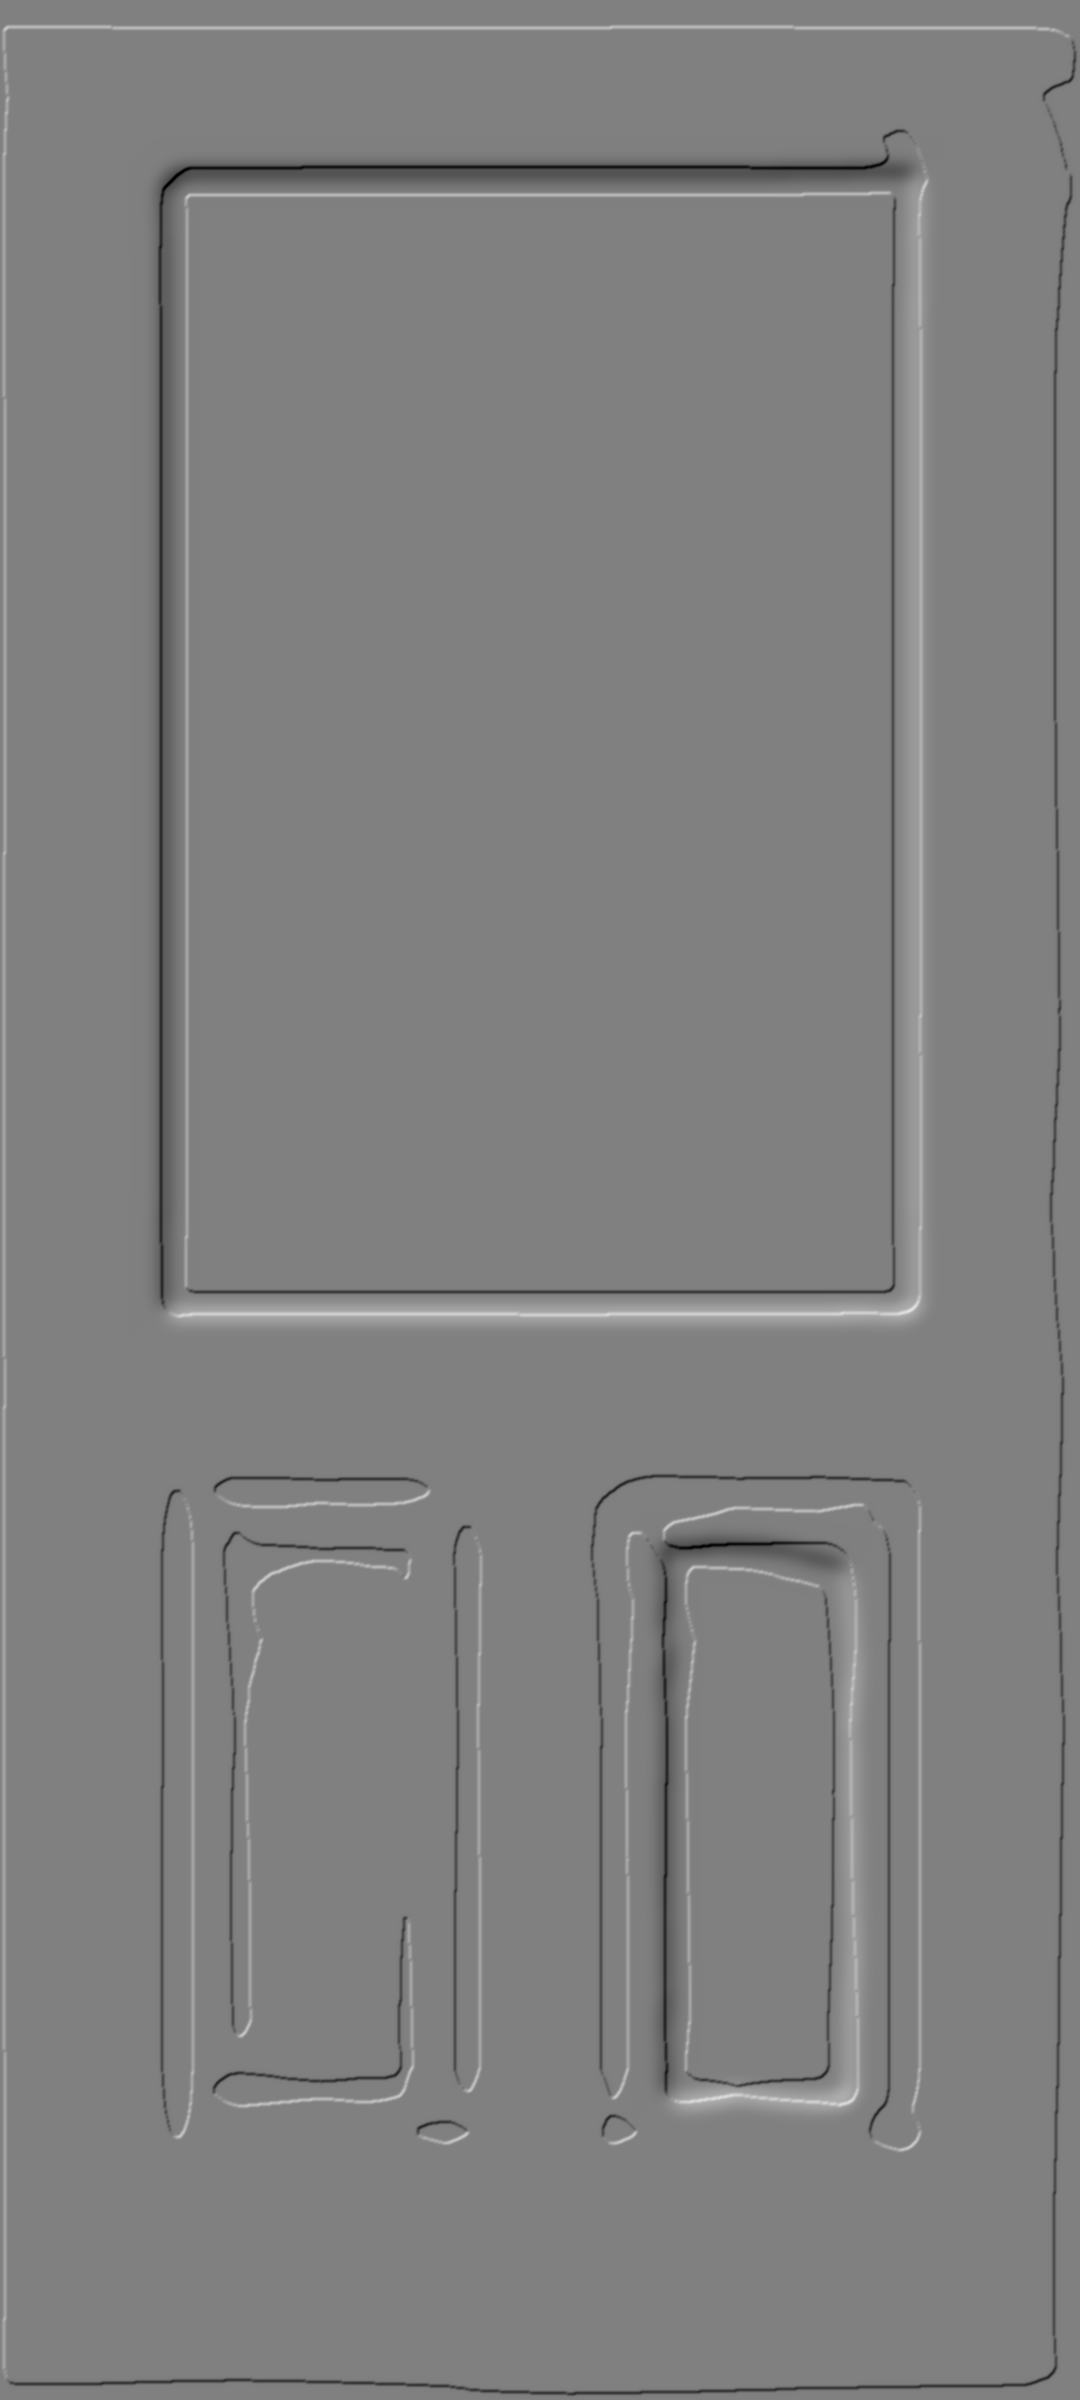
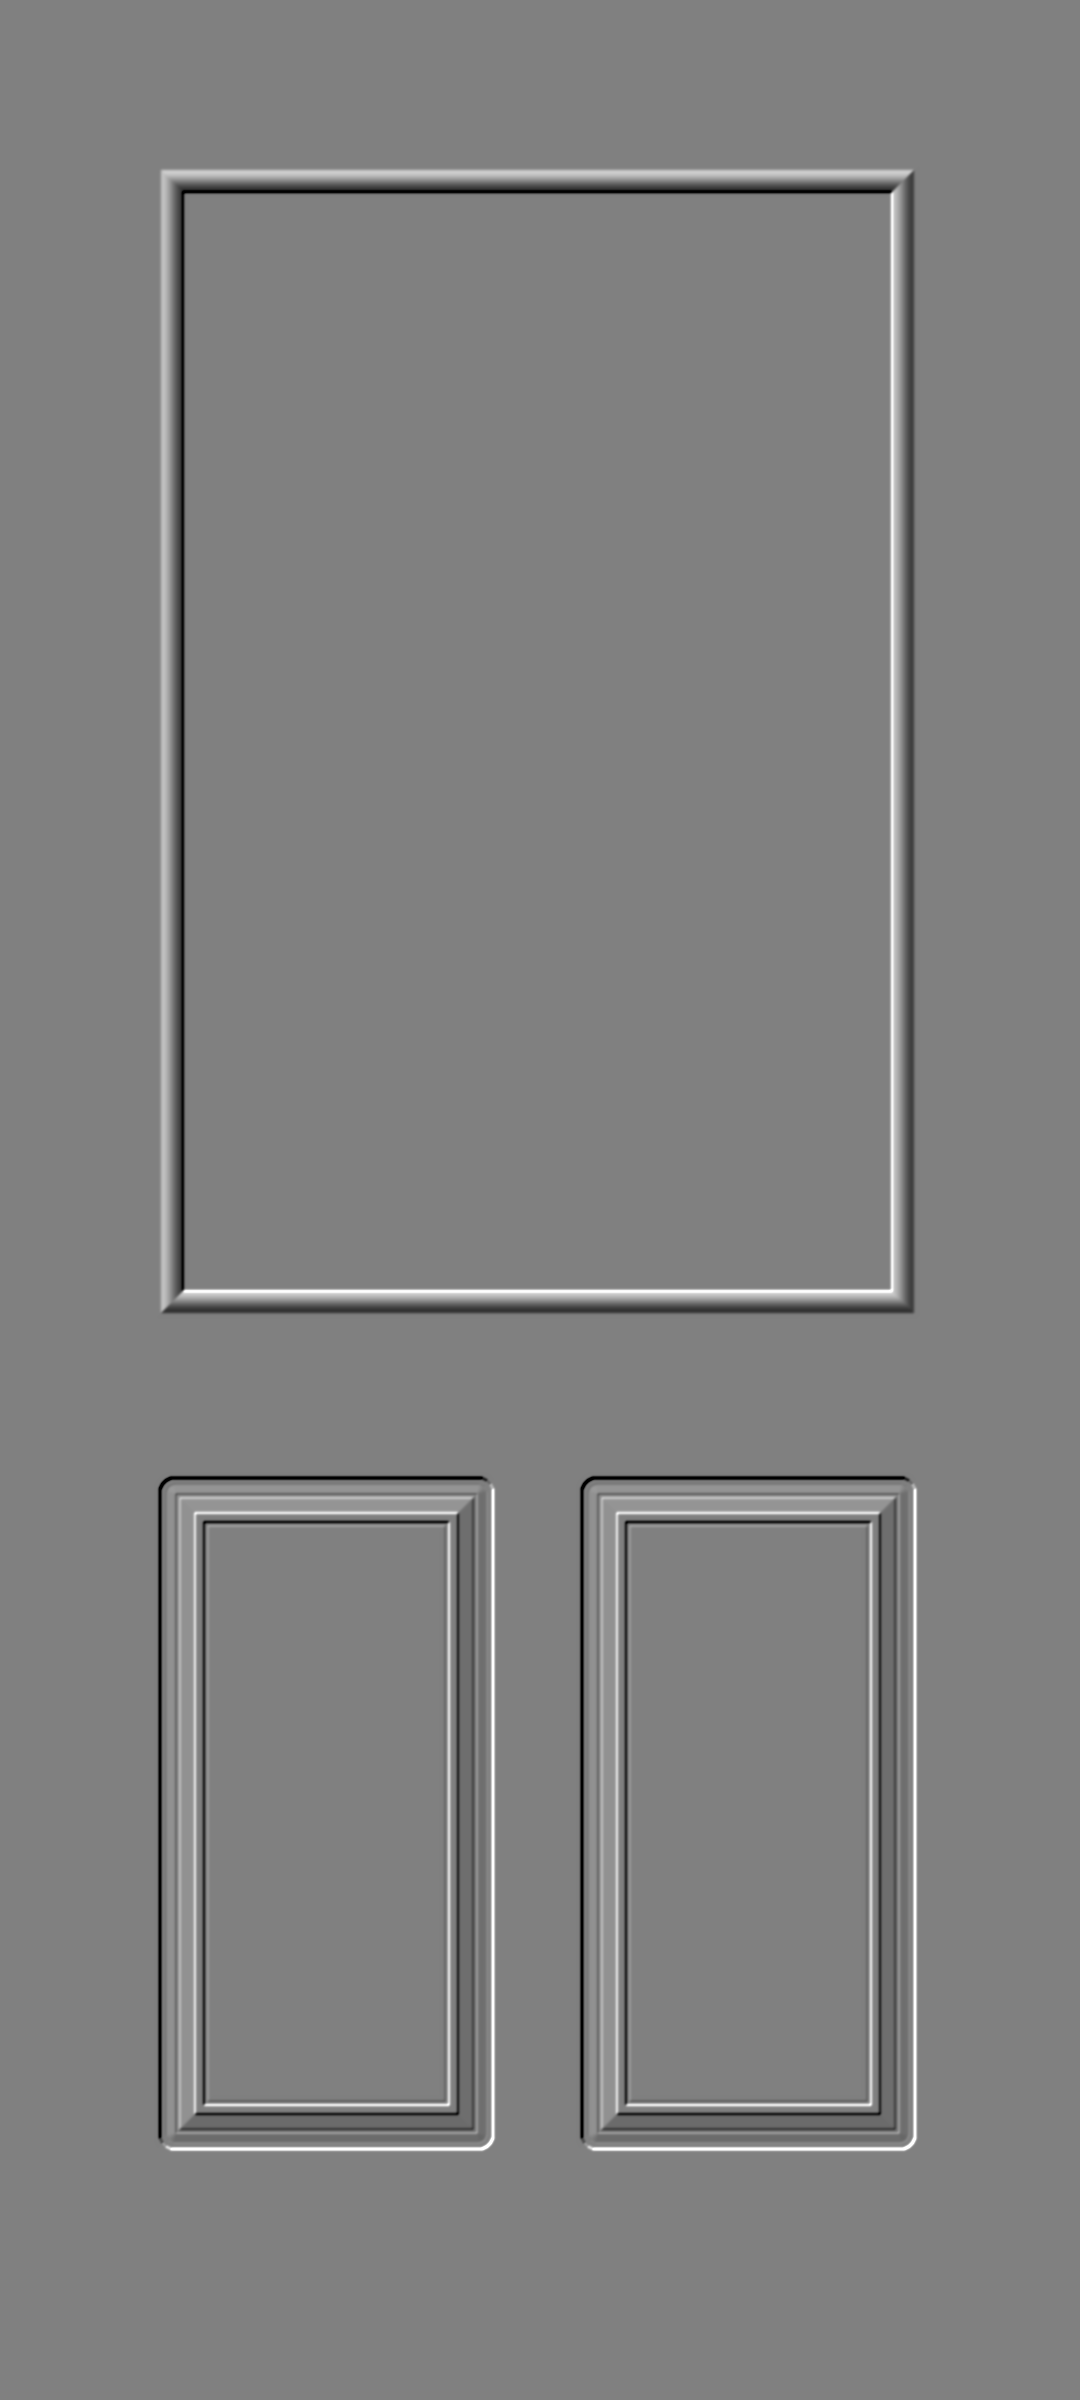
Door builder: rebuild M1, K1, M2 and K1-sidelite profiles as clean vector art
Line drawings and panel reliefs for FG02-M01, CG02-K01, FG03-M02 and P02-K01 SL
were wobbly traces of the catalog; redrawn from the catalog geometry with crisp
raised panels (mitered bevels) checked against Fangda renders and production
photos. Adds tools/doorgen.py for the remaining profiles. Picture cache bumped
so devices pick up the new images.

Claude-Session: https://claude.ai/code/session_01M16iNfFSVzp4sxyxMcoT4T

diff --git a/nei-door-builder/sw.js b/nei-door-builder/sw.js
@@ -2,7 +2,7 @@
 // App page: network first (so updates arrive), cached copy when offline.
 // Libraries, logos and door/glass pictures: served from the cache once saved.
 // Supabase data is not cached here; the app keeps its own saved copy of the catalog.
-const SHELL = "nei-door-shell-v3", PICS = "nei-door-pics-v1";
+const SHELL = "nei-door-shell-v4", PICS = "nei-door-pics-v2";
 const SHELL_FILES = ["./", "index.html", "manifest.webmanifest", "logo.png", "logo-onblack.png",
   "https://cdn.jsdelivr.net/npm/@supabase/supabase-js@2.45.4/dist/umd/supabase.js",
   "https://cdnjs.cloudflare.com/ajax/libs/exceljs/4.4.0/exceljs.min.js"];

diff --git a/nei-door-builder/tools/doorgen.py b/nei-door-builder/tools/doorgen.py
@@ -1,0 +1,79 @@
+"""Clean vector rebuild of NEI door builder profiles.
+Geometry is in inches on the slab (door 36x80, sidelite 14x80).
+Writes line/<id>.png (12 px/in) and relief/<id>.png (30 px/in) in the app's existing styles."""
+import numpy as np, sys
+from PIL import Image, ImageDraw, ImageFilter
+
+LPI, RPI = 12, 30          # line / relief pixels per inch
+
+def line_img(W, items):
+    s = 4  # supersample for smooth anti-aliased strokes
+    im = Image.new("L", (int(W * LPI * s), int(80 * LPI * s)), 255); d = ImageDraw.Draw(im)
+    S = lambda v: v * LPI * s; lw = int(3.4 * s)
+    def rect(x, y, w, h): d.rectangle([S(x), S(y), S(x + w), S(y + h)], outline=0, width=lw)
+    for it in items:
+        x, y, w, h = it["box"]
+        if it["t"] == "raised":
+            b = it.get("bevel", 1.2); rect(x, y, w, h); rect(x + b, y + b, w - 2 * b, h - 2 * b)
+            for (ax, ay), (bx, by) in [((x, y), (x + b, y + b)), ((x + w, y), (x + w - b, y + b)),
+                                       ((x, y + h), (x + b, y + h - b)), ((x + w, y + h), (x + w - b, y + h - b))]:
+                d.line([S(ax), S(ay), S(bx), S(by)], fill=0, width=lw)
+        elif it["t"] == "flat":
+            rect(x, y, w, h)
+        elif it["t"] == "lite":
+            m = it.get("frame", 0.75); rect(x - m, y - m, w + 2 * m, h + 2 * m); rect(x, y, w, h)
+    d.rectangle([0, 0, im.width - 1, im.height - 1], outline=0, width=lw)
+    return im.resize((int(W * LPI), int(80 * LPI)), Image.LANCZOS)
+
+def relief_img(W, items):
+    w, h = int(W * RPI), int(80 * RPI)
+    H = np.zeros((h, w), np.float32)
+    yy, xx = np.mgrid[0:h, 0:w].astype(np.float32) / RPI
+    for it in items:
+        x, y, bw, bh = it["box"]
+        if it["t"] in ("raised", "flat"):
+            b = it.get("bevel", 1.2) if it["t"] == "raised" else 0.35
+            # distance inside the panel from its (softly rounded) edge; the distance field creases at the
+            # corners, which gives the mitered bevel seams the real panels have
+            import cv2
+            mk = Image.new("L", (w, h), 0); ImageDraw.Draw(mk).rounded_rectangle([x * RPI, y * RPI, (x + bw) * RPI, (y + bh) * RPI], radius=0.45 * RPI, fill=255)
+            dist = cv2.distanceTransform(np.asarray(mk), cv2.DIST_L2, 5) / RPI
+            inside = dist > 0
+            prof = np.where(dist < b, -0.55 + 0.55 * (dist / b), 0.0)   # bevel rises from the groove to the field
+            prof = np.where(dist < 0.22, -0.42, prof)                     # crisp sticking groove at the edge
+            prof = np.where((dist >= 0.55) & (dist < 0.68), prof - 0.09, prof)  # fine groove just inside the edge
+            lip = (dist >= b) & (dist < b + 0.28); prof = np.where(lip, 0.20, prof)  # lip where bevel meets the field
+            prof = np.where((dist >= b + 0.28) & (dist < b + 0.42), -0.05, prof)
+            if it["t"] == "flat": prof = np.where(dist < b, -0.45, -0.45) # shaker: whole panel recessed
+            H = np.where(inside, prof, H)
+        elif it["t"] == "lite":
+            m = it.get("frame", 0.75)
+            dist = np.minimum.reduce([xx - (x - m), x + bw + m - xx, yy - (y - m), y + bh + m - yy])
+            ring = (dist > 0) & (dist < m)
+            H = np.where(ring, 0.45 * np.sin(np.pi * dist / m), H)       # rounded glazing bead
+            H = np.where(dist >= m, -0.2, H)
+    import cv2; H = cv2.GaussianBlur(H, (0, 0), 1.15)
+    gy, gx = np.gradient(H)
+    shade = 128 + (gx * 0.75 + gy * 0.9) * 1500          # light from upper left, like the existing reliefs
+    return Image.fromarray(np.clip(shade, 0, 255).astype(np.uint8))
+
+def build(slab_id, W, items, root):
+    fn = slab_id.replace(" ", "_")
+    line_img(W, items).save(f"{root}/line/{fn}.png", optimize=True)
+    relief_img(W, items).save(f"{root}/relief/{fn}.png", optimize=True)
+
+# Door geometry (inches), read from the Fangda catalog drawings and checked against Fangda's renders /
+# production photos; glass openings match each slab's glass_box in the database.
+DOORS = {
+  "FG02-M01": (36, [dict(t="lite", box=(6.8, 7.7, 22.1, 45.0)), dict(t="raised", box=(6.05, 56.4, 23.6, 13.0))]),
+  "CG02-K01": (36, [dict(t="lite", box=(6.1, 6.4, 23.6, 36.6)),
+                    dict(t="raised", box=(5.35, 49.25, 11.05, 22.35)), dict(t="raised", box=(19.4, 49.25, 11.05, 22.35))]),
+  "FG03-M02": (36, [dict(t="lite", box=(7.0, 7.3, 21.8, 14.5)),
+                    dict(t="flat", box=(6.35, 27.2, 9.15, 40.5)), dict(t="flat", box=(20.5, 27.2, 9.15, 40.5))]),
+  "P02-K01 SL": (14, [dict(t="raised", box=(2.4, 10.15, 9.25, 12.45), bevel=1.3), dict(t="raised", box=(2.4, 50.9, 9.25, 20.5), bevel=1.3)]),
+}
+
+if __name__ == "__main__":
+    root = sys.argv[1]
+    for k in sys.argv[2:]:
+        W, items = DOORS[k]; build(k, W, items, root); print("built", k)
